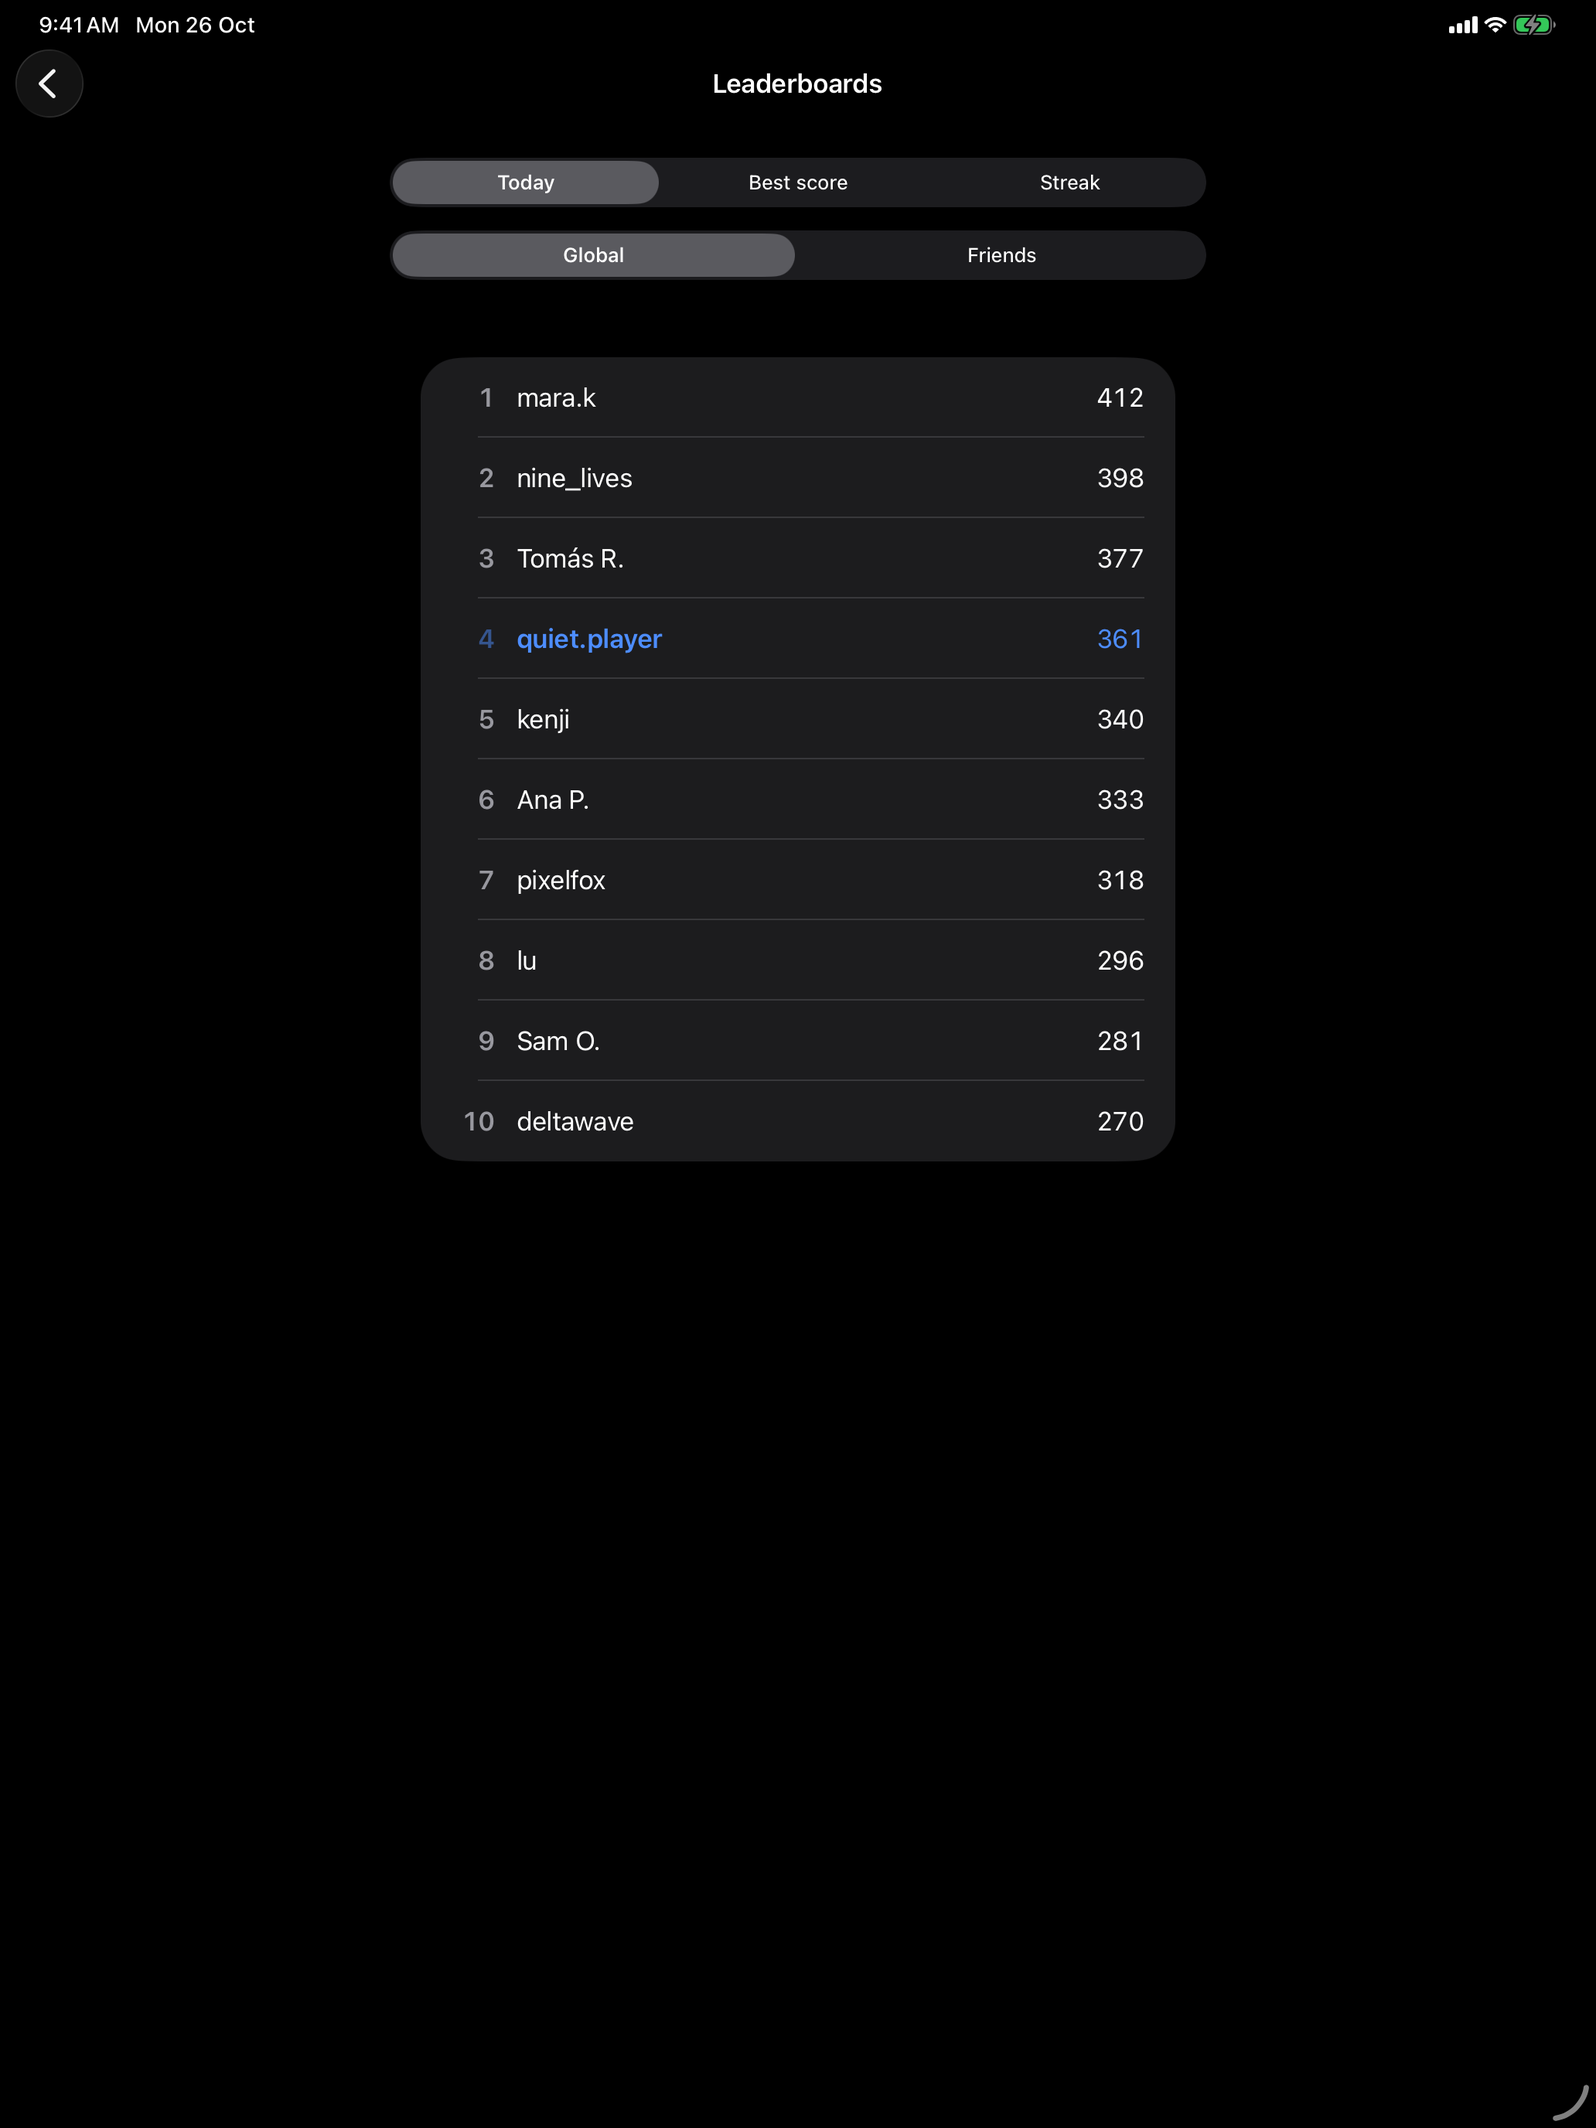
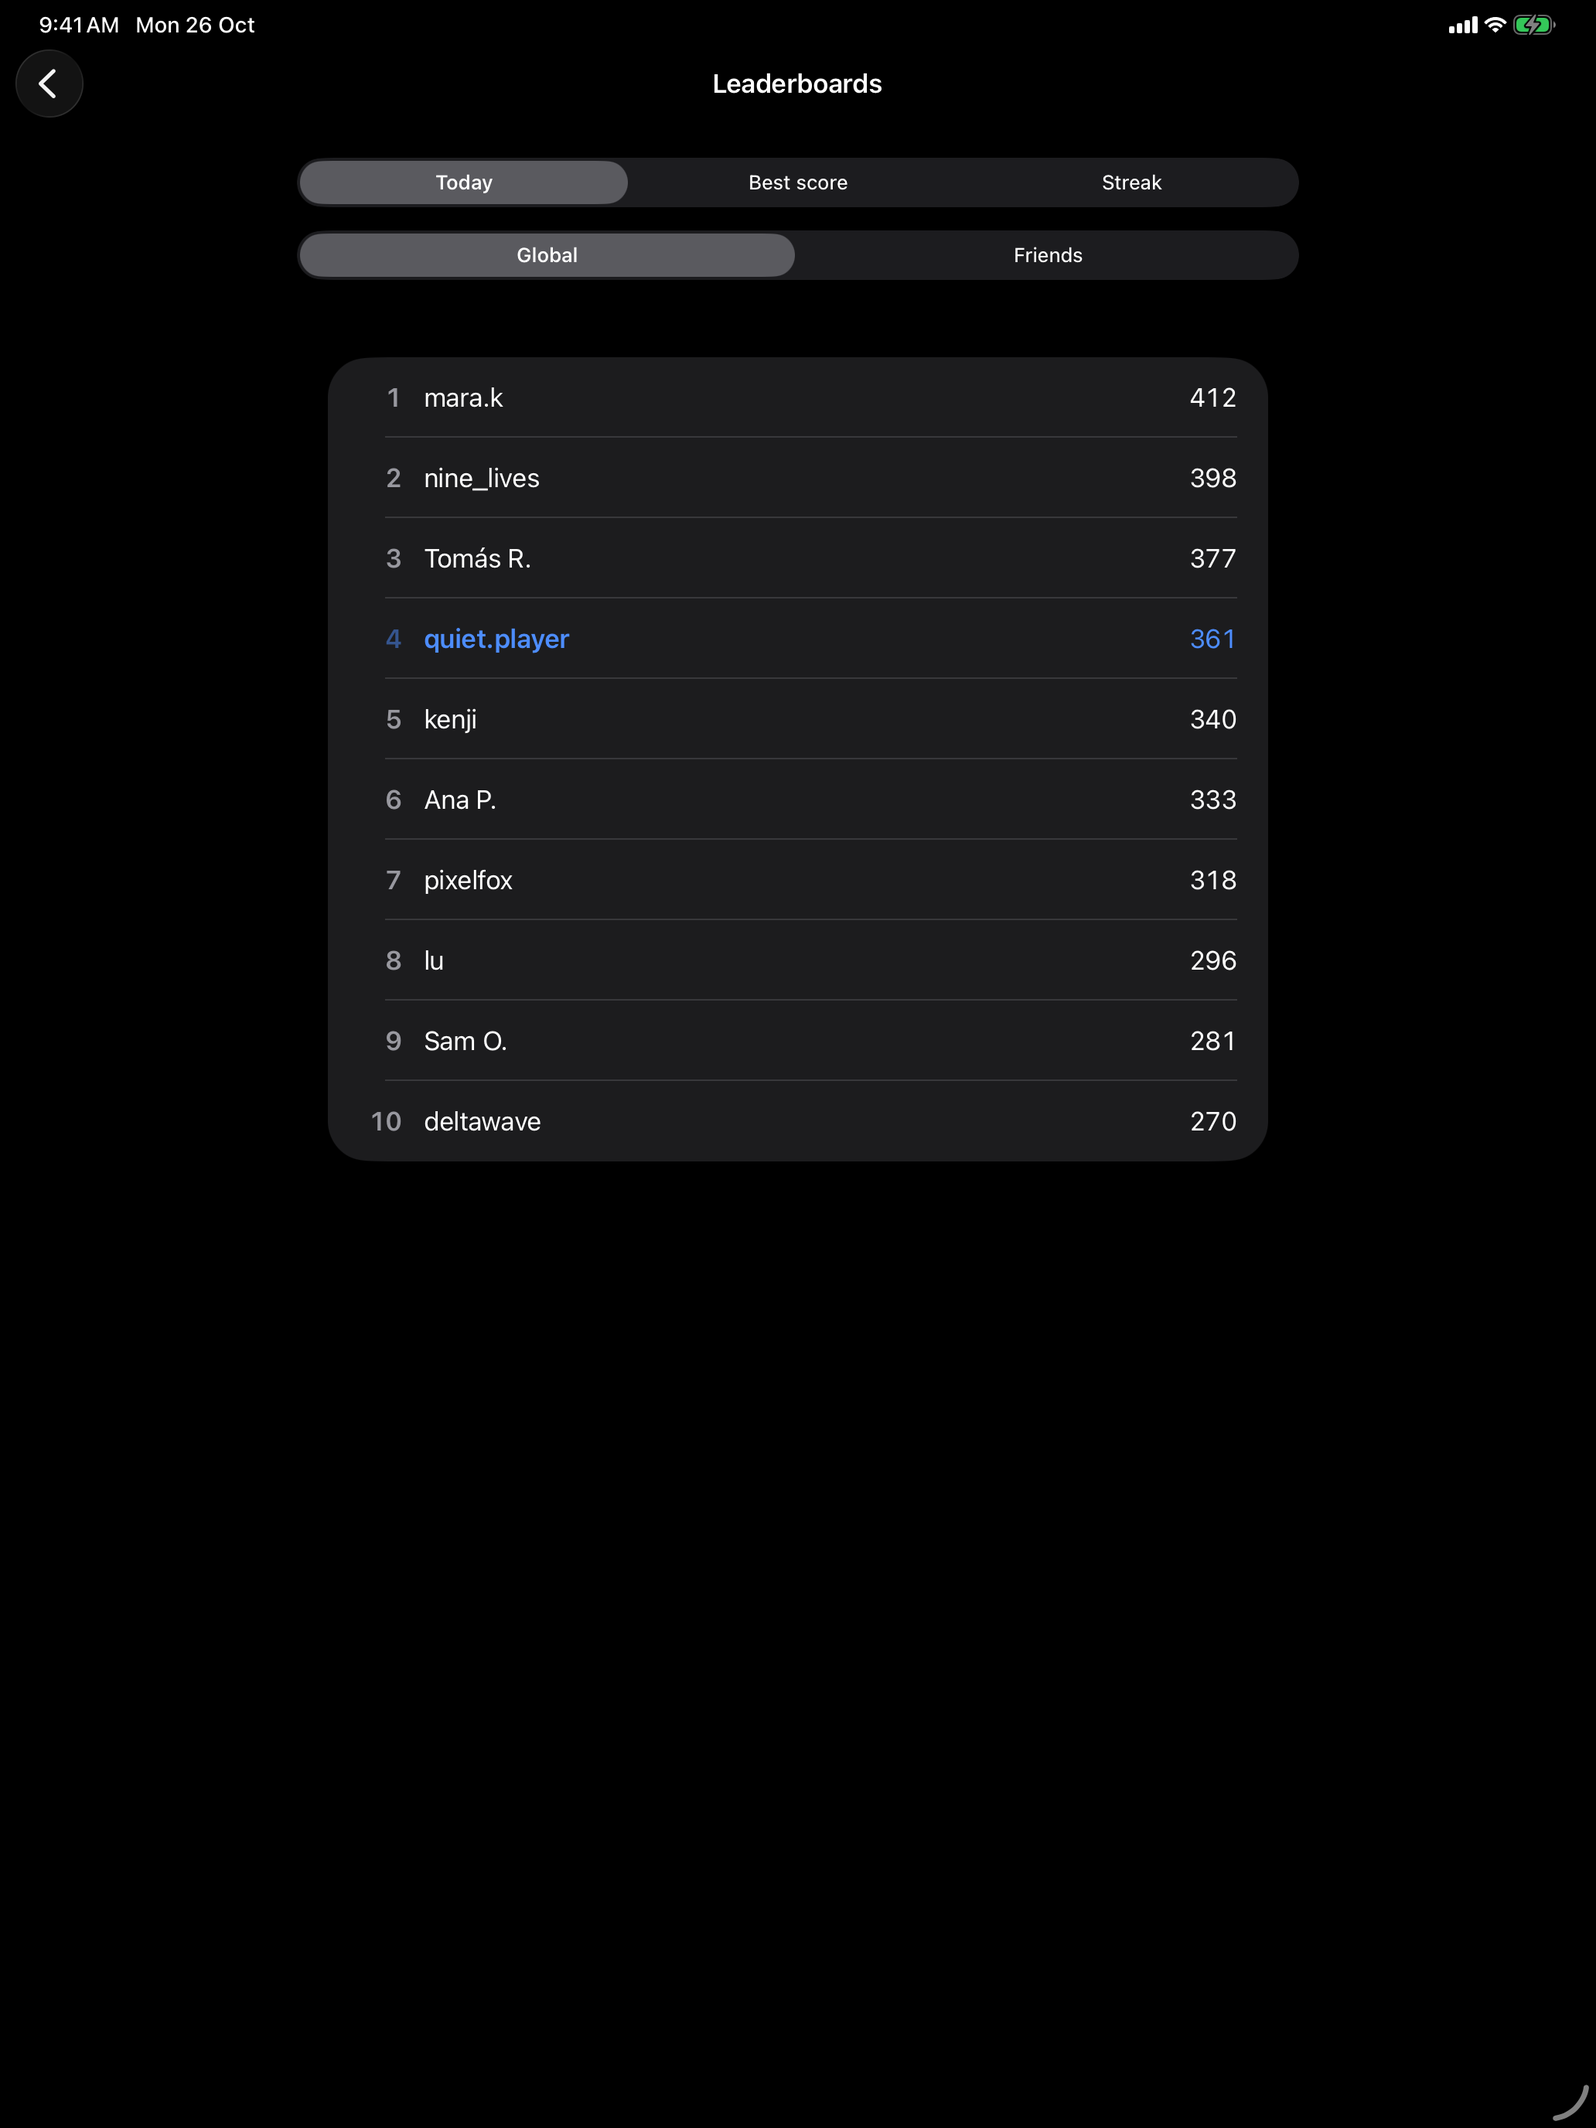
Quiet Numbers: íconos sin alfa, correo de soporte, Mac vía app de iPad, layout responsivo en iPad, brief para Claude Design

diff --git a/docs/quiet-numbers/support.html b/docs/quiet-numbers/support.html
@@ -75,7 +75,7 @@
       <h3>How do I reset my progress?</h3>
       <p>Open Settings in the app and tap <strong>Reset Progress</strong>. It deletes your games, daily results, streaks, achievements and unlocked rewards on this device and the copy saved in your iCloud, and resets your Game Center achievements. If you're signed out of Game Center, the iCloud copy is cleared the next time you sign in. Scores already on leaderboards stay there. Other devices keep their own progress until you reset them too.</p>
       <h3>Contact</h3>
-      <p>Write to <a href="mailto:support@example.com">support@example.com</a>. We read every message.</p>
+      <p>Write to <a href="mailto:hi@tavoohoh.com">hi@tavoohoh.com</a>. We read every message.</p>
     </section>
 
     <section id="es" lang="es">
@@ -89,7 +89,7 @@
       <h3>¿Cómo restablezco mi progreso?</h3>
       <p>Abre Ajustes en la app y toca <strong>Restablecer progreso</strong>. Borra tus partidas, resultados diarios, rachas, logros y recompensas desbloqueadas en este dispositivo y la copia guardada en tu iCloud, y reinicia tus logros de Game Center. Si no tienes sesión en Game Center, la copia de iCloud se borra la próxima vez que inicies sesión. Los puntajes que ya están en los leaderboards se quedan ahí. Tus otros dispositivos conservan su progreso hasta que también lo restablezcas en ellos.</p>
       <h3>Contacto</h3>
-      <p>Escribe a <a href="mailto:support@example.com">support@example.com</a>. Leemos todos los mensajes.</p>
+      <p>Escribe a <a href="mailto:hi@tavoohoh.com">hi@tavoohoh.com</a>. Leemos todos los mensajes.</p>
     </section>
     <footer>
       <p>Quiet Numbers · Quiet Studios</p>

diff --git a/quiet-numbers/App/DesignSystem/Layout.swift b/quiet-numbers/App/DesignSystem/Layout.swift
@@ -1,0 +1,42 @@
+import SwiftUI
+
+/// Widths for compact (iPhone, iPad split view) and regular (iPad, Mac) layouts.
+/// Compact fills the screen; regular grows the board and centers a readable column.
+enum Layout {
+    static func boardWidth(_ sizeClass: UserInterfaceSizeClass?) -> CGFloat {
+        sizeClass == .regular ? 760 : 540
+    }
+
+    /// Lists, forms and leaderboards.
+    static func column(_ sizeClass: UserInterfaceSizeClass?) -> CGFloat {
+        sizeClass == .regular ? 680 : 560
+    }
+
+    /// Primary buttons on Home and the daily challenge.
+    static func buttons(_ sizeClass: UserInterfaceSizeClass?) -> CGFloat {
+        sizeClass == .regular ? 440 : 360
+    }
+
+    static func calendar(_ sizeClass: UserInterfaceSizeClass?) -> CGFloat {
+        sizeClass == .regular ? 600 : 420
+    }
+}
+
+extension View {
+    /// Keeps List and Form rows in a centered column on wide screens, while the
+    /// scroll area (and its background) still spans the whole width.
+    func readableColumn() -> some View {
+        modifier(ReadableColumn())
+    }
+}
+
+private struct ReadableColumn: ViewModifier {
+    @Environment(\.horizontalSizeClass) private var sizeClass
+    @State private var width: CGFloat = 0
+
+    func body(content: Content) -> some View {
+        content
+            .contentMargins(.horizontal, max(0, (width - Layout.column(sizeClass)) / 2), for: .scrollContent)
+            .onGeometryChange(for: CGFloat.self) { $0.size.width } action: { width = $0 }
+    }
+}

diff --git a/quiet-numbers/App/Features/Game/GameView.swift b/quiet-numbers/App/Features/Game/GameView.swift
@@ -17,8 +17,7 @@ struct GameView: View {
     @Environment(\.accessibilityReduceMotion) private var reduceMotion
     @Environment(\.dismiss) private var dismiss
     @Environment(\.appearance) private var appearance
-
-    private static let maxBoardWidth: CGFloat = 540
+    @Environment(\.horizontalSizeClass) private var sizeClass
 
     var body: some View {
         VStack(spacing: 0) {
@@ -27,7 +26,7 @@ struct GameView: View {
                 subtitle: subtitle
             )
             GeometryReader { geometry in
-                let width = min(geometry.size.width - 16, Self.maxBoardWidth)
+                let width = min(geometry.size.width - 16, Layout.boardWidth(sizeClass))
                 let size = (width / CGFloat(Board.columns)).rounded(.down)
                 BoardView(model: model, size: size) { cell in
                     animate { model.tap(cell) }
@@ -41,7 +40,7 @@ struct GameView: View {
                 onHint: { animate { model.showHint() } }
             )
         }
-        .frame(maxWidth: Self.maxBoardWidth + 32)
+        .frame(maxWidth: Layout.boardWidth(sizeClass) + 32)
         .frame(maxWidth: .infinity)
         .background(appearance.theme.background)
         .overlayPreferenceValue(ScoreAnchorKey.self) { anchor in
@@ -84,9 +83,7 @@ struct GameView: View {
                 }
             }
         }
-        #if os(iOS)
         .navigationBarTitleDisplayMode(.inline)
-        #endif
     }
 
     private var subtitle: Text {

diff --git a/quiet-numbers/App/Features/Collection/CollectionView.swift b/quiet-numbers/App/Features/Collection/CollectionView.swift
@@ -19,10 +19,8 @@ struct CollectionView: View {
             RewardSection(title: "Numbers", selection: $numberFont, progress: app.progress)
             RewardSection(title: "Row clear", selection: $clearEffect, progress: app.progress)
             RewardSection(title: "Sound", selection: $soundPack, progress: app.progress)
-            #if os(iOS)
             RewardSection(title: "App icon", selection: $appIcon, progress: app.progress)
                 .onChange(of: appIcon) { setAppIcon(appIcon) }
-            #endif
             Section("Achievements") {
                 ForEach(Achievement.allCases, id: \.self) { achievement in
                     AchievementRow(achievement: achievement, progress: app.progress.progress(of: achievement))
@@ -30,18 +28,17 @@ struct CollectionView: View {
             }
         }
         .scrollContentBackground(.hidden)
+        .readableColumn()
         .background(appearance.theme.background)
         .navigationTitle(Text("Collection"))
     }
 
-    #if os(iOS)
     private func setAppIcon(_ choice: AppIconChoice) {
         guard UIApplication.shared.supportsAlternateIcons,
               UIApplication.shared.alternateIconName != choice.iconName
         else { return }
         UIApplication.shared.setAlternateIconName(choice.iconName)
     }
-    #endif
 }
 
 private struct RewardSection<R: Reward>: View {

diff --git a/quiet-numbers/App/Features/DailyChallenge/DailyChallengeView.swift b/quiet-numbers/App/Features/DailyChallenge/DailyChallengeView.swift
@@ -7,6 +7,7 @@ struct DailyChallengeView: View {
 
     @Environment(AppModel.self) private var app
     @Environment(\.appearance) private var appearance
+    @Environment(\.horizontalSizeClass) private var sizeClass
     @State private var month = AppClock.now
 
     var body: some View {
@@ -41,10 +42,10 @@ struct DailyChallengeView: View {
                             .foregroundStyle(.secondary)
                     }
                 }
-                .frame(maxWidth: 360)
+                .frame(maxWidth: Layout.buttons(sizeClass))
 
                 CalendarView(month: $month, todayKey: today, records: app.persistence.dailies, onSelect: onPlay)
-                    .frame(maxWidth: 420)
+                    .frame(maxWidth: Layout.calendar(sizeClass))
 
                 Text("Next challenge in \(countdown)")
                     .font(.footnote)
@@ -55,9 +56,7 @@ struct DailyChallengeView: View {
         }
         .background(appearance.theme.background)
         .navigationTitle(Text("Daily Challenge"))
-        #if os(iOS)
         .navigationBarTitleDisplayMode(.inline)
-        #endif
     }
 
     /// Live relative time; frozen in demo launches so screenshots don't depend on the clock.

diff --git a/quiet-numbers/App/Features/Settings/SettingsView.swift b/quiet-numbers/App/Features/Settings/SettingsView.swift
@@ -12,9 +12,7 @@ struct SettingsView: View {
         Form {
             Section {
                 Toggle("Sound", isOn: $soundEnabled)
-                #if os(iOS)
                 Toggle("Haptics", isOn: $hapticsEnabled)
-                #endif
                 Toggle("Larger numbers", isOn: $largerNumbers)
             }
             .listRowBackground(Rectangle().fill(appearance.theme.surface))
@@ -41,6 +39,7 @@ struct SettingsView: View {
         }
         .formStyle(.grouped)
         .scrollContentBackground(.hidden)
+        .readableColumn()
         .background(appearance.theme.background)
         .navigationTitle(Text("Settings"))
         .confirmationDialog("Reset all progress?", isPresented: $confirmsReset, titleVisibility: .visible) {
@@ -52,12 +51,10 @@ struct SettingsView: View {
 
     private func reset() {
         app.resetProgress()
-        #if os(iOS)
         // The gold icon is a reward too.
         if UIApplication.shared.alternateIconName != nil {
             UIApplication.shared.setAlternateIconName(nil)
         }
-        #endif
     }
 
     private static var version: String {

diff --git a/quiet-numbers/App/Features/DailyChallenge/CalendarView.swift b/quiet-numbers/App/Features/DailyChallenge/CalendarView.swift
@@ -121,15 +121,18 @@ private struct DayCell: View {
     let isPlayable: Bool
     let onSelect: (String) -> Void
 
+    @Environment(\.horizontalSizeClass) private var sizeClass
+
     var body: some View {
+        let isRegular = sizeClass == .regular
         Button {
             onSelect(dayKey)
         } label: {
             Text(day, format: .number)
-                .font(.system(.callout, design: .rounded, weight: dayKey == todayKey ? .bold : .regular).monospacedDigit())
+                .font(.system(isRegular ? .title3 : .callout, design: .rounded, weight: dayKey == todayKey ? .bold : .regular).monospacedDigit())
                 .foregroundStyle(foreground)
                 .frame(maxWidth: .infinity)
-                .frame(height: 36)
+                .frame(height: isRegular ? 52 : 36)
                 .background {
                     if record?.isCompleted == true {
                         Circle().fill(.tint)

diff --git a/docs/quiet-numbers/privacy.html b/docs/quiet-numbers/privacy.html
@@ -79,7 +79,7 @@
       <h3>Changes</h3>
       <p>If this policy ever changes, we'll update this page and the date above. We'll never start collecting data quietly.</p>
       <h3>Contact</h3>
-      <p><a href="mailto:support@example.com">support@example.com</a></p>
+      <p><a href="mailto:hi@tavoohoh.com">hi@tavoohoh.com</a></p>
     </section>
 
     <section id="es" lang="es">
@@ -97,7 +97,7 @@
       <h3>Cambios</h3>
       <p>Si esta política cambia, actualizaremos esta página y la fecha de arriba. Nunca empezaremos a recolectar datos en silencio.</p>
       <h3>Contacto</h3>
-      <p><a href="mailto:support@example.com">support@example.com</a></p>
+      <p><a href="mailto:hi@tavoohoh.com">hi@tavoohoh.com</a></p>
     </section>
     <footer>
       <p>Quiet Numbers · Quiet Studios</p>

diff --git a/quiet-numbers/App/Features/Leaderboards/LeaderboardsView.swift b/quiet-numbers/App/Features/Leaderboards/LeaderboardsView.swift
@@ -4,6 +4,7 @@ import SwiftUI
 struct LeaderboardsView: View {
     @Environment(AppModel.self) private var app
     @Environment(\.appearance) private var appearance
+    @Environment(\.horizontalSizeClass) private var sizeClass
     @State private var board = GameCenterService.Leaderboard.daily
     @State private var friendsOnly = false
     @State private var state = LoadState.loading
@@ -32,7 +33,7 @@ struct LeaderboardsView: View {
                 .frame(maxHeight: .infinity, alignment: .top)
         }
         .padding()
-        .frame(maxWidth: 560)
+        .frame(maxWidth: Layout.column(sizeClass))
         .frame(maxWidth: .infinity)
         .background(appearance.theme.background)
         .navigationTitle(Text("Leaderboards"))

diff --git a/quiet-numbers/App/Features/Home/HomeView.swift b/quiet-numbers/App/Features/Home/HomeView.swift
@@ -13,6 +13,7 @@ struct HomeView: View {
 
     @Environment(AppModel.self) private var app
     @Environment(\.appearance) private var appearance
+    @Environment(\.horizontalSizeClass) private var sizeClass
     @State private var path: [Route] = []
 
     var body: some View {
@@ -46,7 +47,7 @@ struct HomeView: View {
                 }
                 .controlSize(.large)
                 .buttonBorderShape(.capsule)
-                .frame(maxWidth: 360)
+                .frame(maxWidth: Layout.buttons(sizeClass))
                 if app.progress.bestScore > 0 {
                     Text("Best \(Text(app.progress.bestScore, format: .number))")
                         .font(.subheadline.monospacedDigit())

diff --git a/quiet-numbers/App/Services/HapticsService.swift b/quiet-numbers/App/Services/HapticsService.swift
@@ -1,8 +1,6 @@
-#if canImport(UIKit)
 import UIKit
-#endif
 
-/// Haptic feedback for game events. No-op where haptics aren't available (Mac).
+/// Haptic feedback for game events. No-op where the hardware has none (most iPads, Mac).
 @MainActor
 final class HapticsService {
     enum Event {
@@ -13,7 +11,6 @@ final class HapticsService {
     }
 
     func play(_ event: Event) {
-        #if os(iOS)
         switch event {
         case .select:
             UIImpactFeedbackGenerator(style: .light).impactOccurred()
@@ -24,6 +21,5 @@ final class HapticsService {
         case .rowCleared:
             UINotificationFeedbackGenerator().notificationOccurred(.success)
         }
-        #endif
     }
 }

diff --git a/quiet-numbers/App/Services/SoundService.swift b/quiet-numbers/App/Services/SoundService.swift
@@ -41,9 +41,7 @@ final class SoundService {
 
     private func configureIfNeeded() -> Bool {
         if isConfigured { return engine.isRunning || (try? engine.start()) != nil }
-        #if os(iOS)
         try? AVAudioSession.sharedInstance().setCategory(.ambient)
-        #endif
         engine.attach(player)
         engine.connect(player, to: engine.mainMixerNode, format: format)
         isConfigured = true
